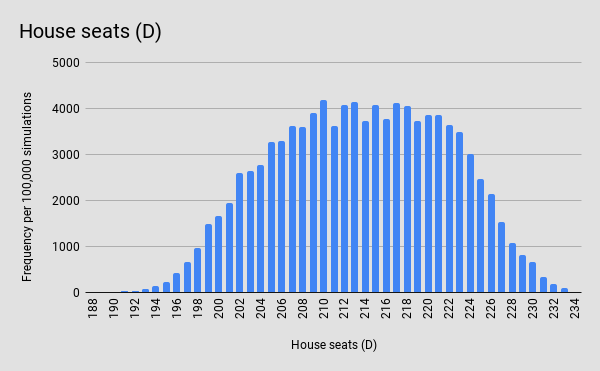
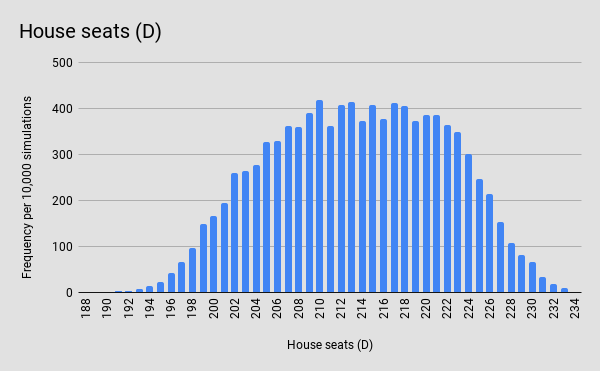
edit

diff --git a/senate/index.html b/senate/index.html
@@ -9,6 +9,7 @@
     <section class="graph-container">
       <h2>Distribution of Senate Seats</h2>
       <img src="/data/september/senateSeptember.png">
+      <i>Graph is a random sample of 10,000 simulations</i>
     </section>
     <section class="graph-container">
     <h2>Simulation Results</h2>

diff --git a/house/index.html b/house/index.html
@@ -9,6 +9,7 @@
     <section class="graph-container">
       <h2>Distribution of House Seats</h2>
       <img src="/data/september/houseSeptember.png">
+      <i>Graph is a random sample of 10,000 simulations</i>
     </section>
     <section class="graph-container">
     <h2>Simulation Results</h2>

diff --git a/styles.css b/styles.css
@@ -97,7 +97,7 @@ legend {
 
 .methodology-flex {
   display: flex;
-
+  max-width: 100vw;
   align-items: center;
 }
 
@@ -155,6 +155,7 @@ legend {
 .graph-container img {
   border: 1px solid #1c2b4a;
   width: fit-container;
+  margin-bottom: 5px;
 }
 
 .graph-container h2 {

diff --git a/index.html b/index.html
@@ -44,6 +44,7 @@
     <fieldset>
       <h2>Incumbency adv.</h2>
     </fieldset>
+
     </div>
     </section>
 </body>
